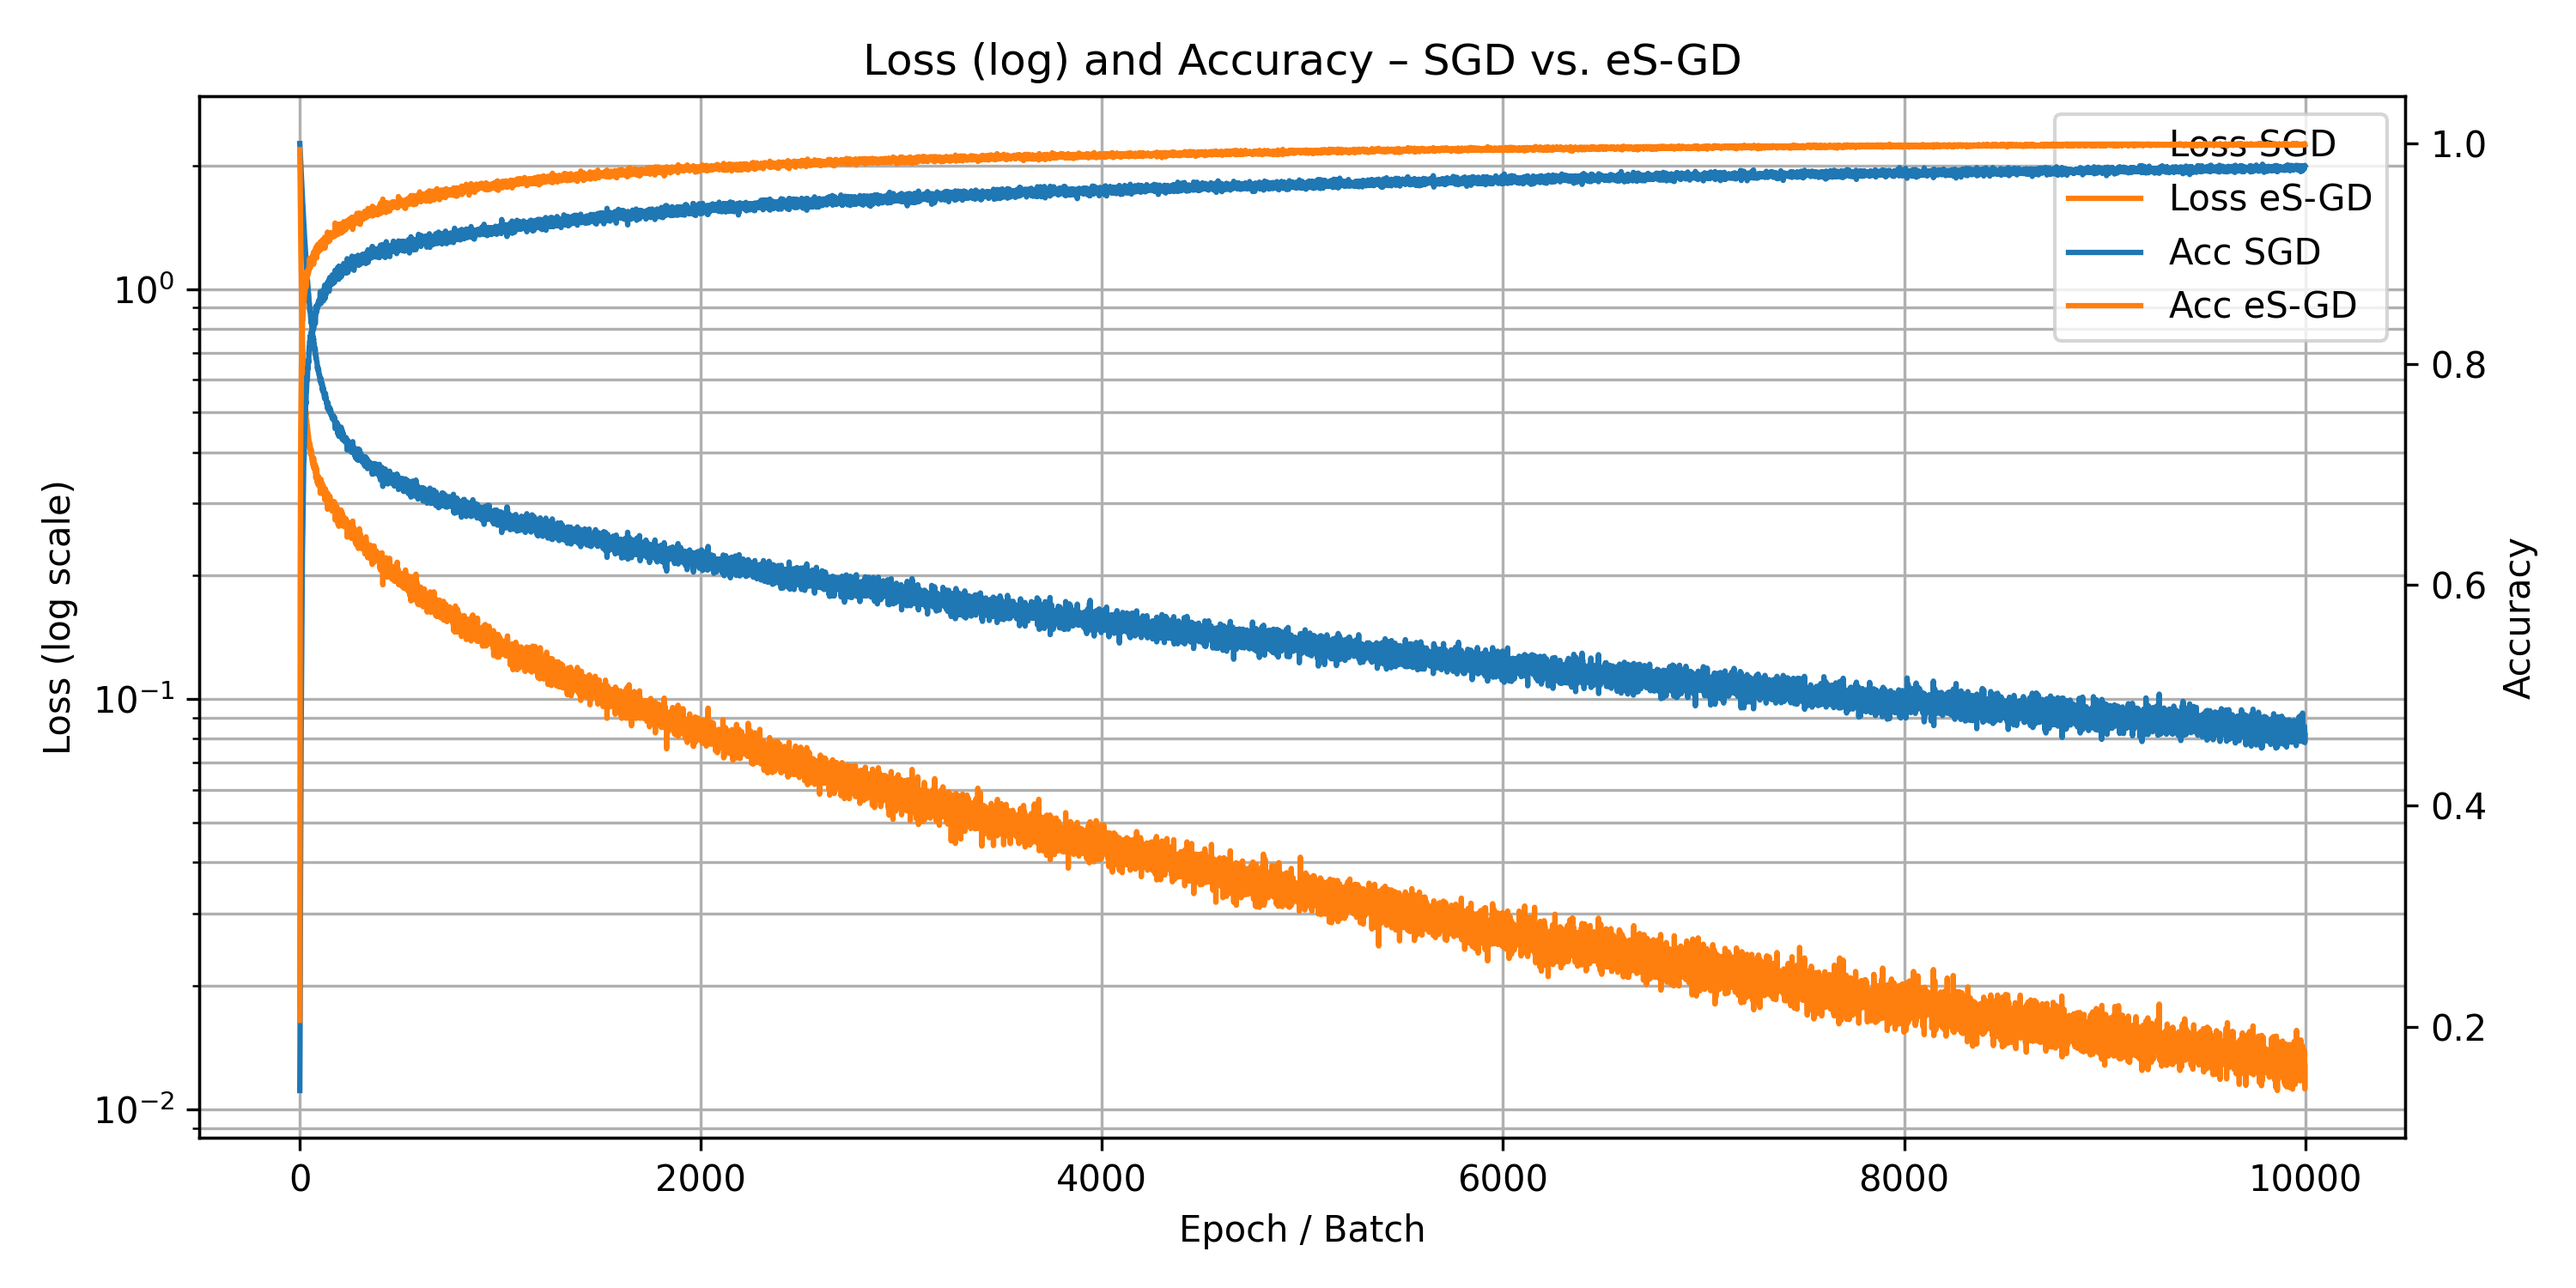
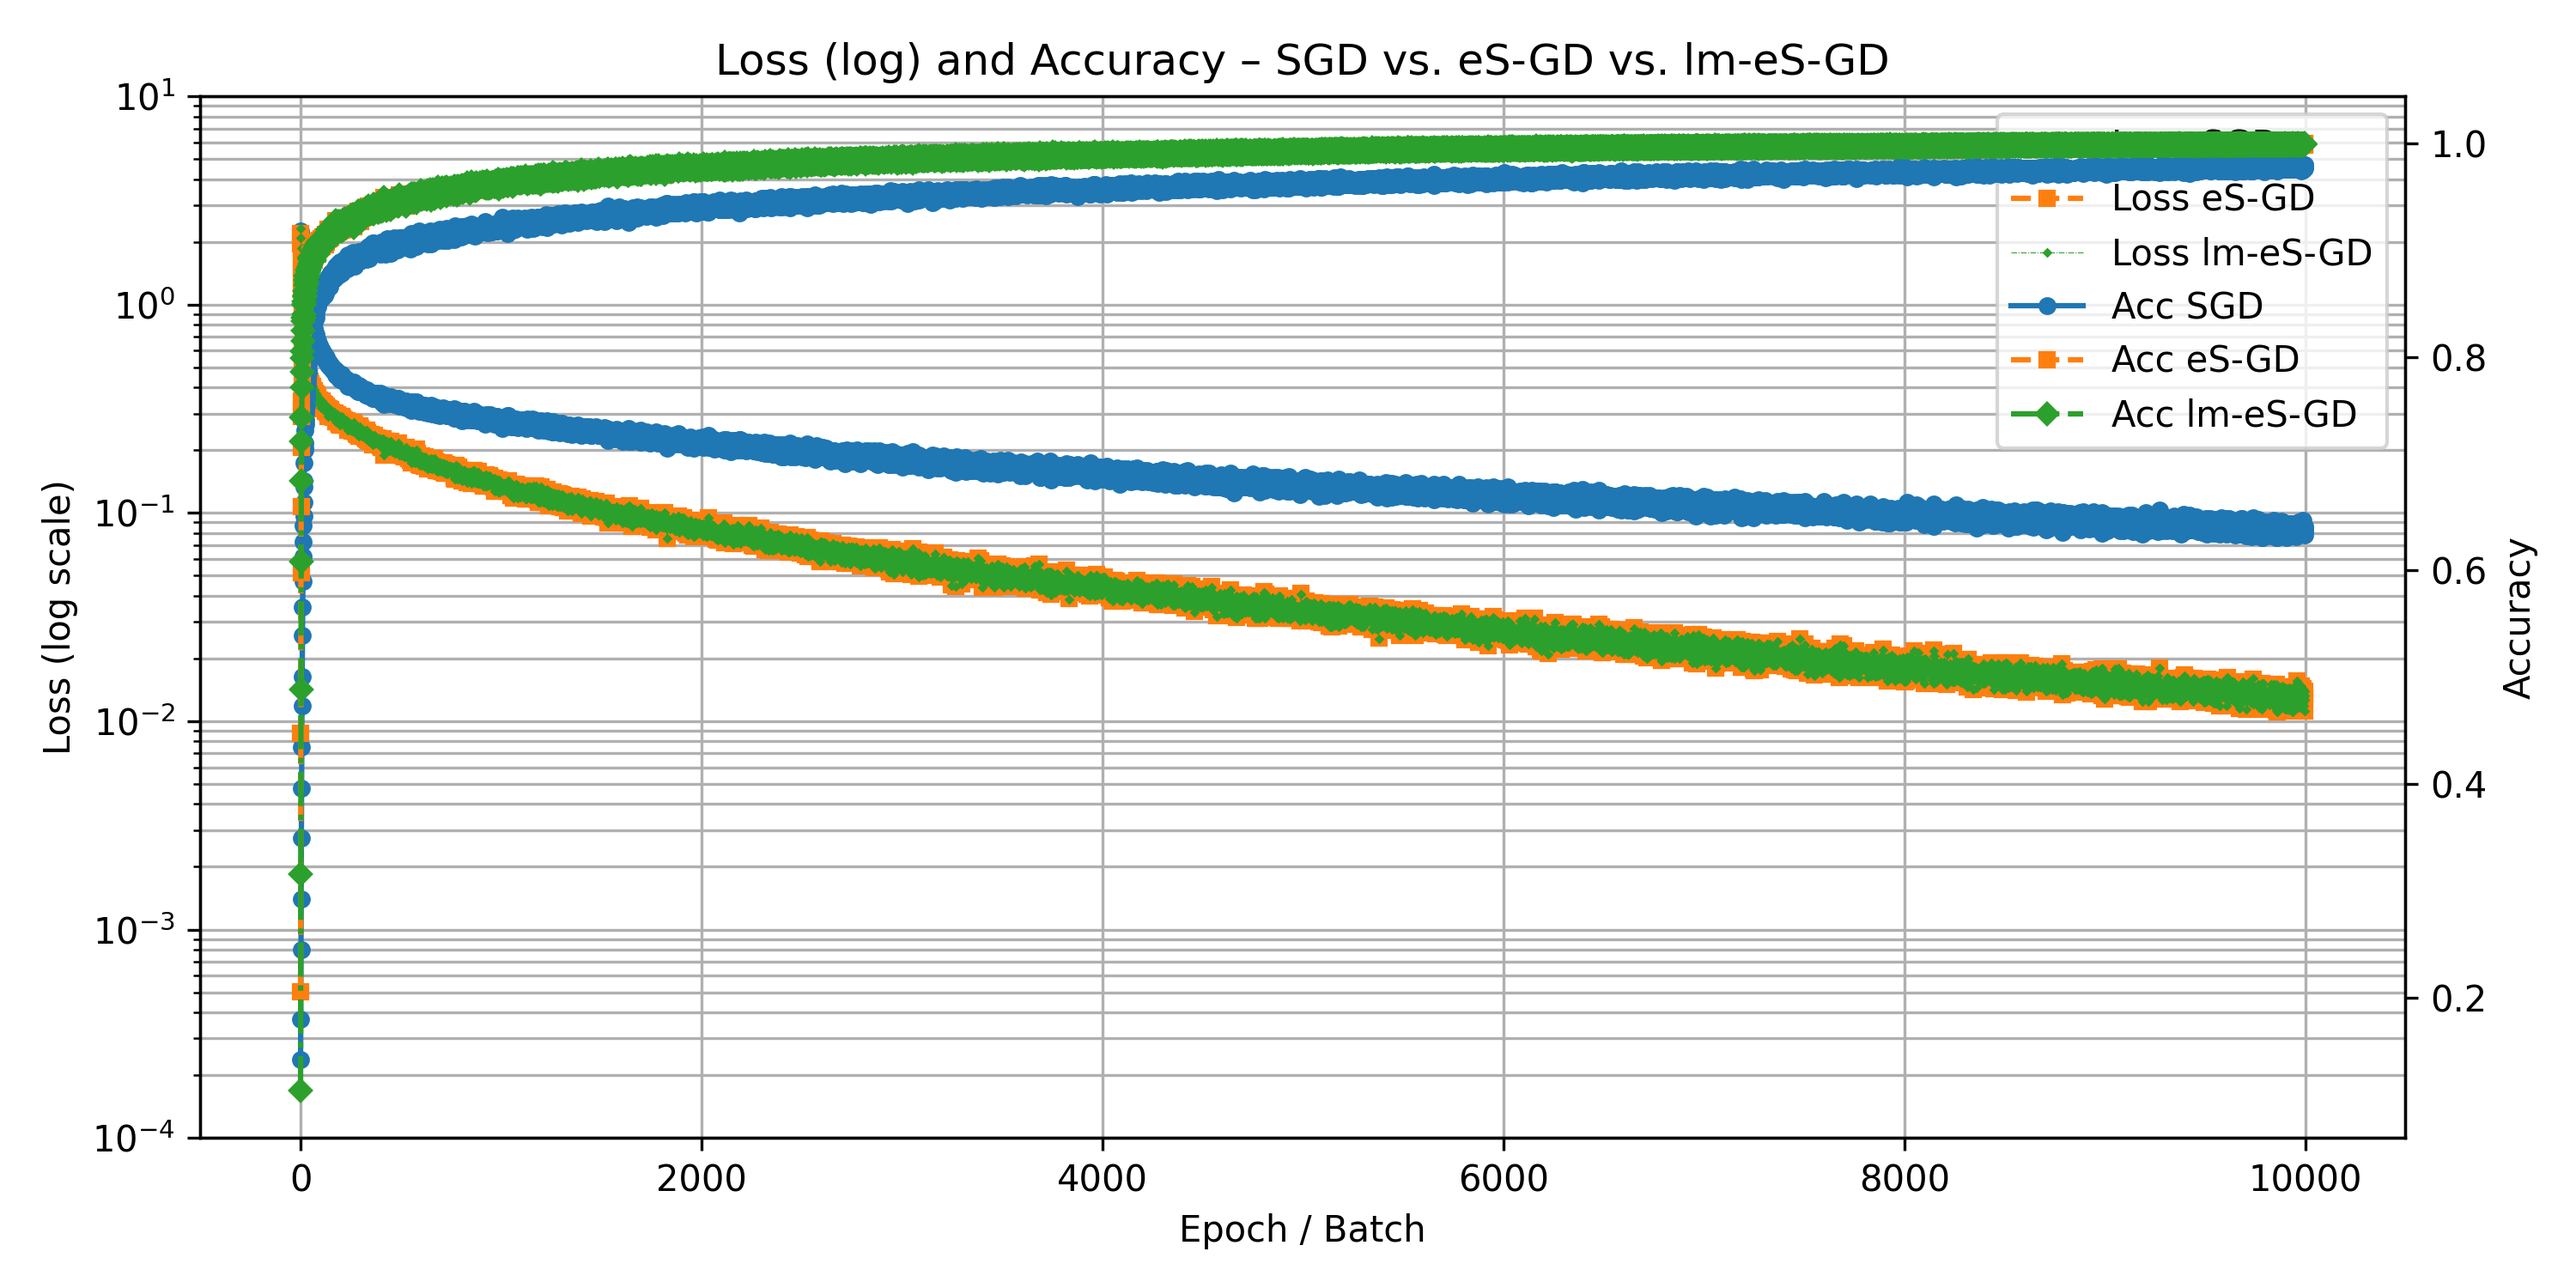
maj figures

Changed region(s): [[0.031, 0.0307, 0.961, 0.92], [0.93, 0.4293, 0.961, 0.46]]

diff --git a/partI_JMLMC/JMLMC.tex b/partI_JMLMC/JMLMC.tex
@@ -729,7 +729,7 @@ satisfy condition 5 relative to the existence of a stopping criterion \eqref{sto
 not resorting to the interpolating hypothesis (depicted in section \ref{intro}). 
 The sections also emphasize the fact that the next step for further improvements may be closely related to adaptiveness. 
 \newG{Finally, section \ref{mnist} focuses on a well-known high dimensional problem, the MNIST benchmark, in order to highlight the fact that the balanced splittings we suggest can
-be applied to real-world datasets.}
+be applied to real-world datasets. }
 %Part II of this paper will be dedicated to condition 6, namely adaptativeness. \\ %It will be applied to Speth-GD but, once again, the adaptive strategy we suggest can be applied to any flow $F$ decomposed into a sum. \\ 
 
 \subsection{The extended Speth splitting applied to GD}
@@ -1204,7 +1204,12 @@ It is the split version of the full batch optimizer of flow \eqref{F_adam_mod}, 
 \subsection{MNIST}
 \label{mnist}
 
-Reproducible, same init for both
+In this section, we compare the previously described splitting strategies to their classical stochastic mini-batch counteparts on the MNIST benchmark. 
+The MNIST benchmark is a classic dataset and evaluation task used to test and compare machine learning models on handwritten digit classification. 
+It consists of $60000$ training and $10000$ test grayscale images of digits $(0-9)$, each sized $28\times 28$ pixels (i.e. it is a high dimensional benchmark). 
+It is a standard baseline for evaluating the effectiveness of new algorithms, especially in image classification and deep learning.
+
+Reproducible, same init for every computations, same architecture, same initial point, lr = , momentum = 0.9
 \begin{figure}[!h]
   %\includegraphics[width=0.8\linewidth]{chapitre5_img/comparison_plot.png}
   \includegraphics[width=0.8\linewidth]{chapitre5_img/comparison_plot_log.png}
@@ -1253,7 +1258,7 @@ machine-learning test than the full-batch counterpart. %This is the subject of p
 
 
 \section*{Data availibility and harware}
-The examples are implemented in Python and Tensorflow: the code is available at \textcolor{blue} {https://github.com/bbensaid30/TOptimizers.git}. 
+The examples are implemented in Python and Tensorflow: the code is available at \textcolor{blue} {https://github.com/?????????}. 
 
 \section*{Conflict of interest}
 The authors declare that they have no conflict of interest.
@@ -1931,6 +1936,7 @@ $L\gets 0$ (stiffness evaluation, one entry per batch)\;
       $\eta$ = 0\;
     }
     SumAgg \gets 0\; 
+    L \gets 0 \;
     \ForEach{batch index $b$}{
         Extract mini‑batch $(x_b,y_b)$\;
         Forward pass: $z_b\leftarrow f_\theta(x_b)$\;
